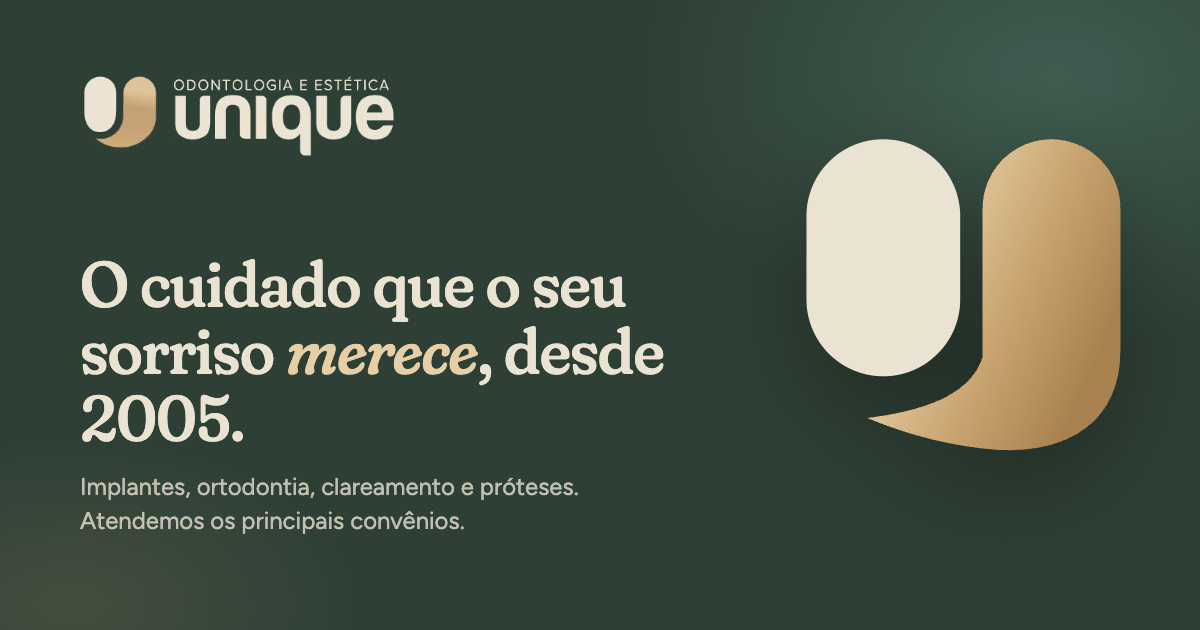
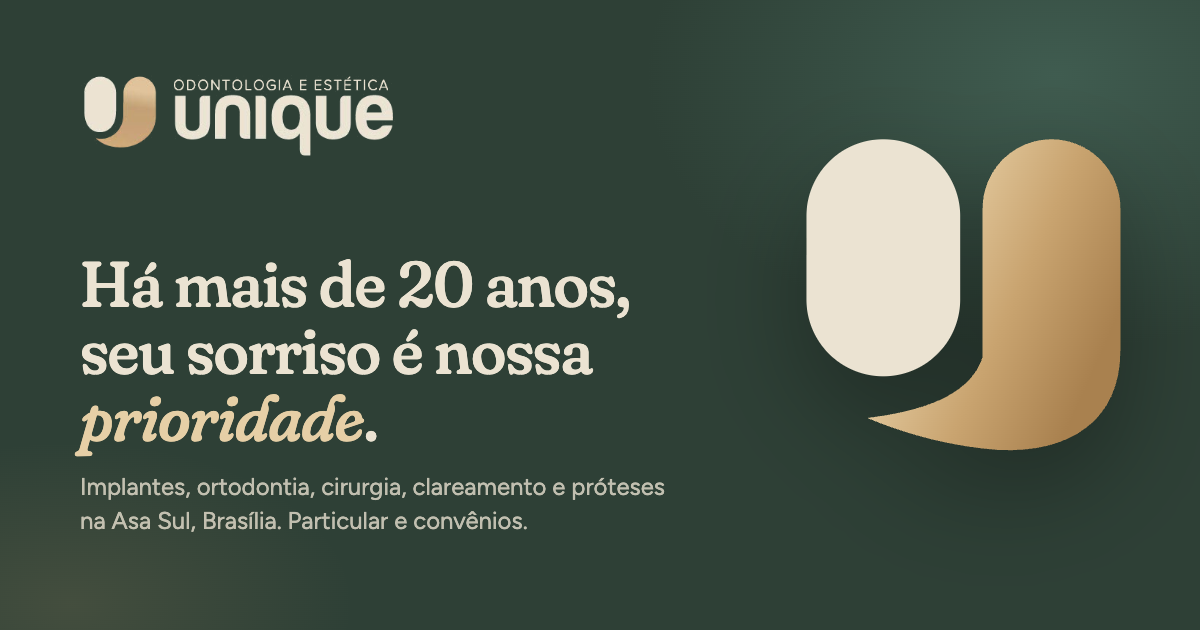
Hero: novo título; especialidades em ordem alfabética com cirurgia oral
- Título do hero: "Há mais de 20 anos, seu sorriso é nossa prioridade."
- Novo card "Cirurgia oral e bucomaxilofacial"
- Cards de especialidades ordenados alfabeticamente pelo título
- Card de dúvidas vira faixa de largura total (7 cards em 3 colunas
  deixariam o último sozinho na linha)
- Imagem OG regenerada com o novo título

Claude-Session: https://claude.ai/code/session_015AP1hsiGLF8gezsuksoA69

diff --git a/index.html b/index.html
@@ -101,7 +101,7 @@
     <div class="container hero__inner">
       <div class="hero__copy">
         <p class="eyebrow eyebrow--light">Odontologia e estética</p>
-        <h1 class="hero__title">O cuidado que o seu sorriso <em>merece</em>, desde 2005.</h1>
+        <h1 class="hero__title">Há mais de 20 anos, seu sorriso é nossa <em>prioridade</em>.</h1>
         <p class="hero__lede">Implantes, ortodontia, bucomaxilofacial, endodontia, dentística, clareamento e próteses em uma clínica que atende pacientes particulares e também os principais convênios.</p>
         <div class="hero__actions">
           <a class="btn btn--gold btn--lg" href="https://wa.me/5561982212650?text=Ol%C3%A1%2C%20gostaria%20de%20agendar%20uma%20avalia%C3%A7%C3%A3o%20na%20Unique%20Odontologia." target="_blank" rel="noopener">
@@ -195,42 +195,49 @@
       </div>
 
       <div class="cards">
-        <article class="card card--spec reveal" style="--d:.05s">
-          <p class="card__kicker">Implantodontia</p>
-          <h3>Implantes dentários</h3>
-          <p>Reposição de um ou vários dentes com implantes de titânio, planejados para durar e devolver mastigação, conforto e estética.</p>
-          <ul class="tags"><li>Unitários</li><li>Múltiplos</li></ul>
-        </article>
-
-        <article class="card card--spec reveal" style="--d:.1s">
-          <p class="card__kicker">Reabilitação oral</p>
-          <h3>Protocolo sobre implantes</h3>
-          <p>Prótese fixa completa apoiada em implantes, para quem perdeu todos os dentes de uma arcada. Estabilidade para comer, falar e sorrir com segurança.</p>
-          <ul class="tags"><li>Arcada completa</li><li>Fixo sobre implantes</li></ul>
-        </article>
-
-        <article class="card card--spec reveal" style="--d:.15s">
+        <article class="card card--spec reveal" style="--d:0.05s">
           <p class="card__kicker">Ortodontia</p>
           <h3>Aparelhos e alinhadores</h3>
           <p>Alinhamento dos dentes e correção da mordida, com a opção certa para a sua idade, o seu caso e a sua rotina.</p>
           <ul class="tags"><li>Aparelho fixo</li><li>Removível</li><li>Alinhador estético</li></ul>
         </article>
 
-        <article class="card card--spec reveal" style="--d:.2s">
+        <article class="card card--spec reveal" style="--d:0.1s">
+          <p class="card__kicker">Cirurgia</p>
+          <h3>Cirurgia oral e bucomaxilofacial</h3>
+          <p>Extrações, dentes do siso e cirurgias da boca e dos maxilares, com planejamento cuidadoso e acompanhamento no pós-operatório.</p>
+          <ul class="tags"><li>Extrações</li><li>Siso</li><li>Maxilares</li></ul>
+        </article>
+
+        <article class="card card--spec reveal" style="--d:0.15s">
           <p class="card__kicker">Estética</p>
           <h3>Clareamento dental</h3>
           <p>Dentes mais brancos com técnica segura e acompanhamento profissional, respeitando o esmalte e a sensibilidade de cada paciente.</p>
           <ul class="tags"><li>Com acompanhamento</li><li>Resultado natural</li></ul>
         </article>
 
-        <article class="card card--spec reveal" style="--d:.25s">
+        <article class="card card--spec reveal" style="--d:0.2s">
+          <p class="card__kicker">Implantodontia</p>
+          <h3>Implantes dentários</h3>
+          <p>Reposição de um ou vários dentes com implantes de titânio, planejados para durar e devolver mastigação, conforto e estética.</p>
+          <ul class="tags"><li>Unitários</li><li>Múltiplos</li></ul>
+        </article>
+
+        <article class="card card--spec reveal" style="--d:0.25s">
           <p class="card__kicker">Prótese</p>
           <h3>Prótese fixa</h3>
           <p>Restauração de dentes danificados ou fragilizados, devolvendo forma, função e estética com materiais de alta qualidade.</p>
           <ul class="tags"><li>Bloco</li><li>Pino</li><li>Coroa</li></ul>
         </article>
 
-        <article class="card card--cta reveal" style="--d:.3s">
+        <article class="card card--spec reveal" style="--d:0.3s">
+          <p class="card__kicker">Reabilitação oral</p>
+          <h3>Protocolo sobre implantes</h3>
+          <p>Prótese fixa completa apoiada em implantes, para quem perdeu todos os dentes de uma arcada. Estabilidade para comer, falar e sorrir com segurança.</p>
+          <ul class="tags"><li>Arcada completa</li><li>Fixo sobre implantes</li></ul>
+        </article>
+
+        <article class="card card--cta reveal" style="--d:0.35s">
           <p class="card__kicker card__kicker--light">Dúvidas?</p>
           <h3>Não encontrou o que procura?</h3>
           <p>Conte o que você precisa e a gente orienta o melhor caminho para o seu caso.</p>

diff --git a/css/style.css b/css/style.css
@@ -625,9 +625,22 @@ h2 {
 .card--cta {
   position: relative;
   overflow: hidden;
-  justify-content: flex-end;
+  grid-column: 1 / -1;
+  display: grid;
+  grid-template-columns: minmax(0, 1fr) auto;
+  align-items: center;
+  column-gap: 40px;
   background: var(--green-700);
   color: var(--cream);
+}
+.card--cta .card__kicker,
+.card--cta h3,
+.card--cta p { grid-column: 1; }
+.card--cta p { max-width: 52ch; }
+.card--cta .btn {
+  grid-column: 2;
+  grid-row: 1 / 4;
+  align-self: center;
 }
 .card--cta::before {
   content: "";
@@ -641,7 +654,6 @@ h2 {
   transform: rotate(22deg);
   pointer-events: none;
 }
-.card--cta .btn { align-self: flex-start; margin-top: 8px; }
 
 /* ---------- Convênios ---------- */
 .plans { background: var(--cream); }
@@ -937,6 +949,8 @@ h2 {
 
 @media (max-width: 640px) {
   .cards { grid-template-columns: 1fr; }
+  .card--cta { grid-template-columns: 1fr; }
+  .card--cta .btn { grid-column: 1; grid-row: auto; justify-self: start; margin-top: 8px; }
   .plans__grid { grid-template-columns: repeat(2, minmax(0, 1fr)); gap: 10px; }
   .plans__grid li { min-height: 76px; font-size: 1.15rem; padding: 14px; }
   .contact__info { grid-template-columns: 1fr; gap: 20px; }
